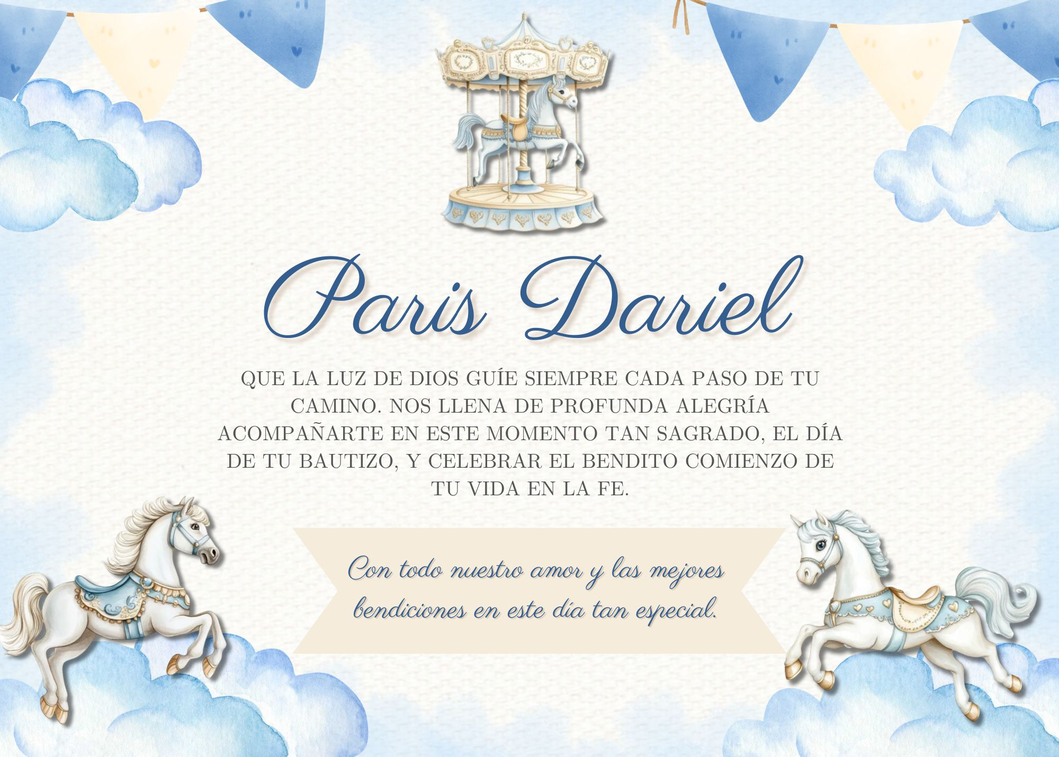
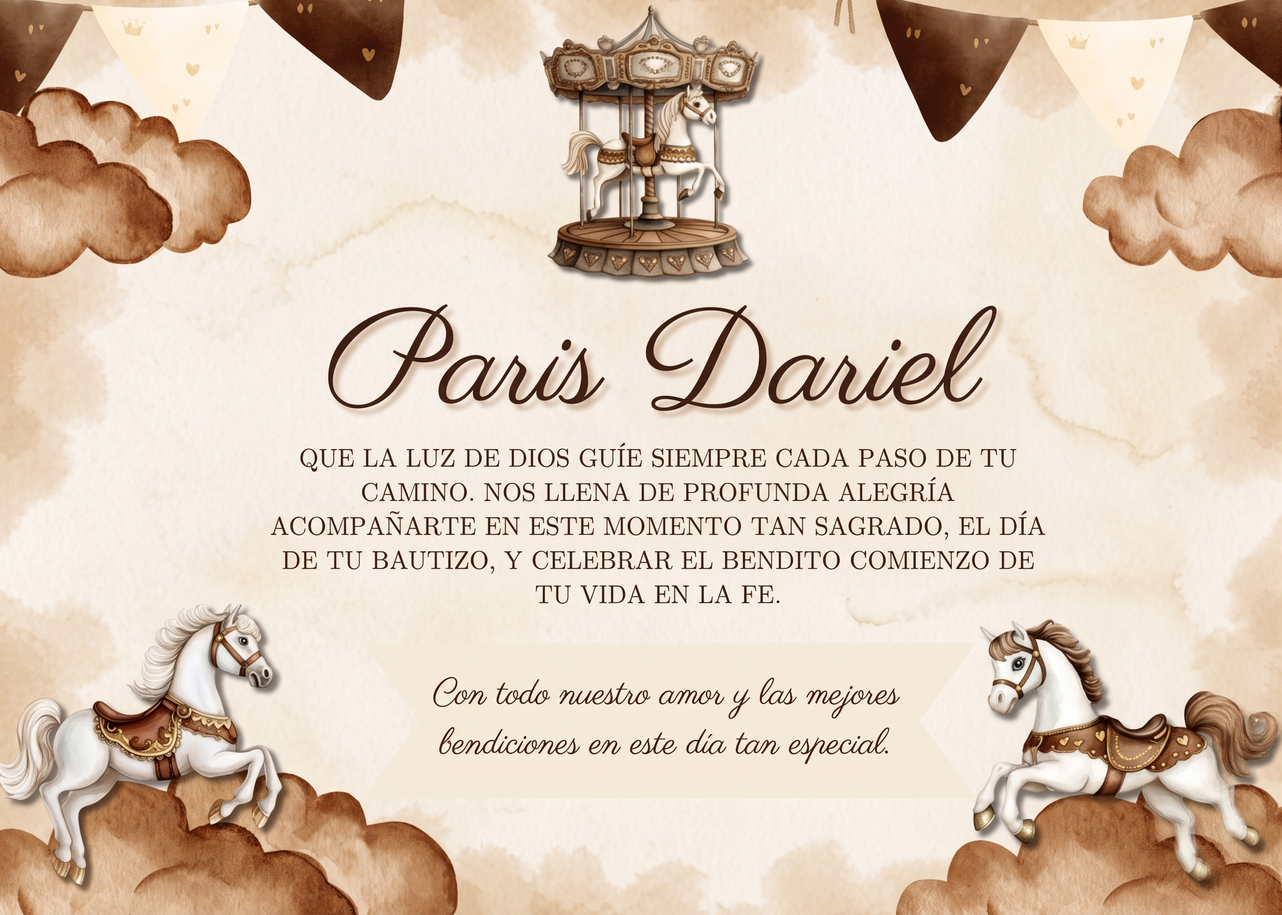
Actualizacion de imagen

diff --git a/index.html b/index.html
@@ -82,7 +82,7 @@
 
                 <!-- TARJETA MENSAJE CON LA IMAGEN HORIZONTAL -->
                 <div class="tarjeta-mensaje-punteada" data-aos="zoom-in">
-                    <img src="img/tarjetah.jpg" alt="Decoración" class="img-mensaje-debajo">
+                    <img src="img/tarjetahorizontal.jpg" alt="Decoración" class="img-mensaje-debajo">
                     <p class="texto-debajo-tarjeta">¡HOY CELEBRAMOS EL BAUTIZO DE PARIS DARIEL! ✨</p>
                 </div>
             </div>
